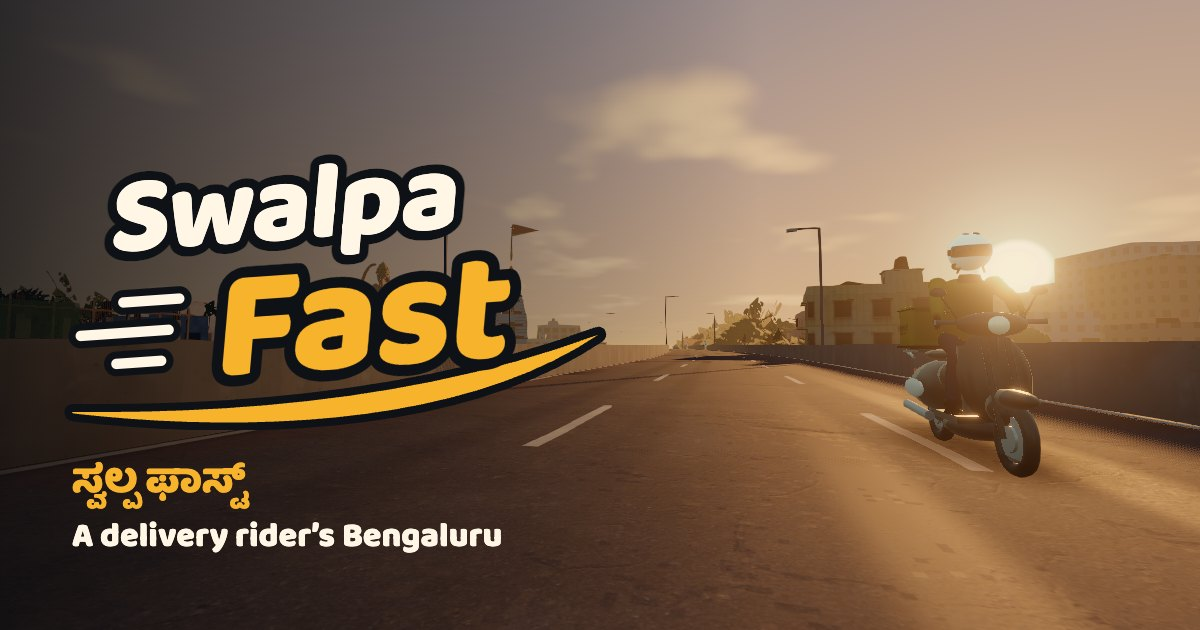
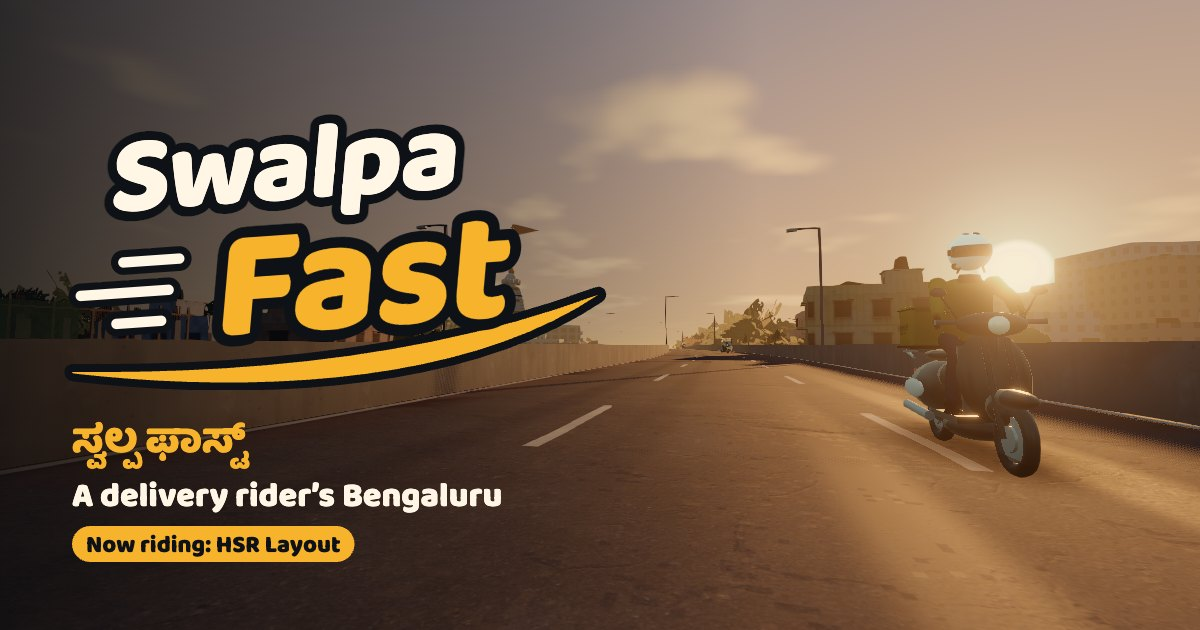
"Now riding: HSR Layout" under the tagline, on the menus and the share image

Changed region(s): [[0.0308, 0.181, 0.5242, 0.9048], [0.6167, 0.4825, 0.6475, 0.5127], [0.5858, 0.5429, 0.6167, 0.573]]

diff --git a/src/dev/brandExport.ts b/src/dev/brandExport.ts
@@ -128,7 +128,7 @@ export const brandExport = {
   },
 
   /** The share image, 1200 by 630: the game's picture as it is now, shaded on the left, with the logo and the tagline. */
-  async share(tagline: string, kannada: string, name = 'share') {
+  async share(tagline: string, kannada: string, where: string, name = 'share') {
     const { canvas, context } = await frame(1200, 630)
     const shade = context.createLinearGradient(0, 0, 760, 0)
     shade.addColorStop(0, 'rgb(8 10 14 / 78%)')
@@ -136,15 +136,24 @@ export const brandExport = {
     context.fillStyle = shade
     context.fillRect(0, 0, 1200, 630)
     const logo = await picture(await logoSvg())
-    context.drawImage(logo, 36, 110, 576, 320)
+    context.drawImage(logo, 36, 70, 576, 320)
     await document.fonts.load("800 40px 'Baloo Tamma 2'", `${kannada}${tagline}`)
     context.textBaseline = 'alphabetic'
     context.fillStyle = BRAND.yellow
     context.font = "800 40px 'Baloo Tamma 2'"
-    context.fillText(kannada, 72, 492)
+    context.fillText(kannada, 72, 452)
     context.fillStyle = BRAND.cream
     context.font = "800 34px 'Baloo Tamma 2'"
-    context.fillText(tagline, 72, 546)
+    context.fillText(tagline, 72, 506)
+    // Where the game is set so far, on a yellow tag under the tagline.
+    context.font = "800 24px 'Baloo Tamma 2'"
+    const wide = context.measureText(where).width + 28
+    context.fillStyle = BRAND.yellow
+    context.beginPath()
+    context.roundRect(72, 526, wide, 36, 18)
+    context.fill()
+    context.fillStyle = BRAND.charcoal
+    context.fillText(where, 86, 552)
     return send(`${name}.jpg`, await blobOf(canvas, 'image/jpeg', 0.86))
   },
 

diff --git a/index.html b/index.html
@@ -26,7 +26,7 @@
     <meta property="og:type" content="website" />
     <meta property="og:site_name" content="Swalpa Fast" />
     <meta property="og:title" content="Swalpa Fast · A delivery rider's Bengaluru" />
-    <meta property="og:description" content="Be a delivery rider in a real, living Bengaluru. Free in your browser, no download." />
+    <meta property="og:description" content="Be a delivery rider in a real, living Bengaluru. Now riding: HSR Layout. Free in your browser, no download." />
     <meta property="og:image" content="/share.jpg" />
     <meta property="og:image:width" content="1200" />
     <meta property="og:image:height" content="630" />
@@ -34,7 +34,7 @@
     <meta property="og:locale" content="en_IN" />
     <meta name="twitter:card" content="summary_large_image" />
     <meta name="twitter:title" content="Swalpa Fast · A delivery rider's Bengaluru" />
-    <meta name="twitter:description" content="Be a delivery rider in a real, living Bengaluru. Free in your browser, no download." />
+    <meta name="twitter:description" content="Be a delivery rider in a real, living Bengaluru. Now riding: HSR Layout. Free in your browser, no download." />
     <meta name="twitter:image" content="/share.jpg" />
   </head>
   <body>

diff --git a/src/ui/TitleScreen.tsx b/src/ui/TitleScreen.tsx
@@ -1,7 +1,7 @@
 import { markLoad } from '../dev/loadTimeline'
 import { useEffect, useState } from 'react'
 import { unlockAudio } from '../audio/audioEngine'
-import { GAME_NAME_KANNADA, TAGLINE } from '../game/brand'
+import { GAME_NAME_KANNADA, NOW_RIDING, TAGLINE } from '../game/brand'
 import { averageRating } from '../game/fleet'
 import { useGameStore } from '../game/gameStore'
 import { useLaunch } from '../game/launch'
@@ -107,6 +107,7 @@ export function TitleScreen() {
           {GAME_NAME_KANNADA}
         </p>
         <p className="title-lede">{TAGLINE}</p>
+        <p className="title-where">{NOW_RIDING}</p>
       </header>
 
       {view === 'story' ? (

diff --git a/src/ui/MobileNotice.tsx b/src/ui/MobileNotice.tsx
@@ -1,4 +1,4 @@
-import { GAME_NAME, GAME_NAME_KANNADA } from '../game/brand'
+import { GAME_NAME, GAME_NAME_KANNADA, NOW_RIDING } from '../game/brand'
 import { Logo } from './Logo'
 import { useState } from 'react'
 
@@ -34,6 +34,7 @@ export function MobileNotice() {
         <p className="title-kannada" lang="kn">
           {GAME_NAME_KANNADA}
         </p>
+        <p className="title-where">{NOW_RIDING}</p>
         <p className="title-lede">{GAME_NAME} is played on a computer, with a keyboard.</p>
         <p className="mobile-notice-text">
           Open this page on a laptop or desktop to ride. Send yourself the link so it's there when you are.

diff --git a/src/ui/LoadingScreen.tsx b/src/ui/LoadingScreen.tsx
@@ -1,4 +1,4 @@
-import { GAME_NAME_KANNADA, TAGLINE } from '../game/brand'
+import { GAME_NAME_KANNADA, NOW_RIDING, TAGLINE } from '../game/brand'
 import { Logo } from './Logo'
 import { markLoad } from '../dev/loadTimeline'
 import { useEffect, useRef, useState, type CSSProperties } from 'react'
@@ -179,6 +179,7 @@ export function LoadingScreen({ onGone }: { onGone: () => void }) {
           {GAME_NAME_KANNADA}
         </p>
         <p className="title-lede">{TAGLINE}</p>
+        <p className="title-where">{NOW_RIDING}</p>
       </header>
 
       <footer className="loading-footer">

diff --git a/src/game/brand.ts b/src/game/brand.ts
@@ -6,6 +6,8 @@
 export const GAME_NAME = 'Swalpa Fast'
 export const GAME_NAME_KANNADA = 'ಸ್ವಲ್ಪ ಫಾಸ್ಟ್'
 export const TAGLINE = 'A delivery rider’s Bengaluru'
+/** Where in Bengaluru the game is set so far: said under the tagline, so the name doesn't promise the whole city. */
+export const NOW_RIDING = 'Now riding: HSR Layout'
 /** The game's version, from package.json (vite.config.ts). */
 export const VERSION: string = __APP_VERSION__
 /** A file name's start for anything saved from the game (photos, the score card). */

diff --git a/src/index.css b/src/index.css
@@ -1489,6 +1489,18 @@ body,
   line-height: 1.35;
 }
 
+.title-where {
+  display: inline-block;
+  margin: 6px 0 0;
+  padding: 3px 10px 1px;
+  border-radius: 999px;
+  color: var(--title-on-marigold);
+  background: var(--title-marigold);
+  font-size: clamp(13px, 1.1vw, 15px);
+  font-weight: 700;
+  line-height: 1.3;
+}
+
 .title-brand .title-lede {
   max-width: none;
   margin: 0;

diff --git a/DEVLOG.md b/DEVLOG.md
@@ -11223,3 +11223,11 @@ Asked for on foot, Unstuck moved the vehicle to the road and left the rider stan
 were: they were marked as riding but still drawn off the seat. They're now seated on it, at the
 road, facing along it. From inside a room they're out of it at once, by the door they came in at,
 and the road nearest that door is the one used.
+
+## 2026-11-21: Entry 238, "Now riding: HSR Layout"
+
+The tagline says Bengaluru and the map is HSR Layout and Agara. The tagline stays (the game's
+feel is the city's, and more neighbourhoods are planned), with a line under it that says where
+the game is set so far: "Now riding: HSR Layout" (`NOW_RIDING` in brand.ts), on a small yellow tag
+on the title, loading and phone-notice screens and the share image, and in the share description.
+When a neighbourhood is added, that one line changes.
